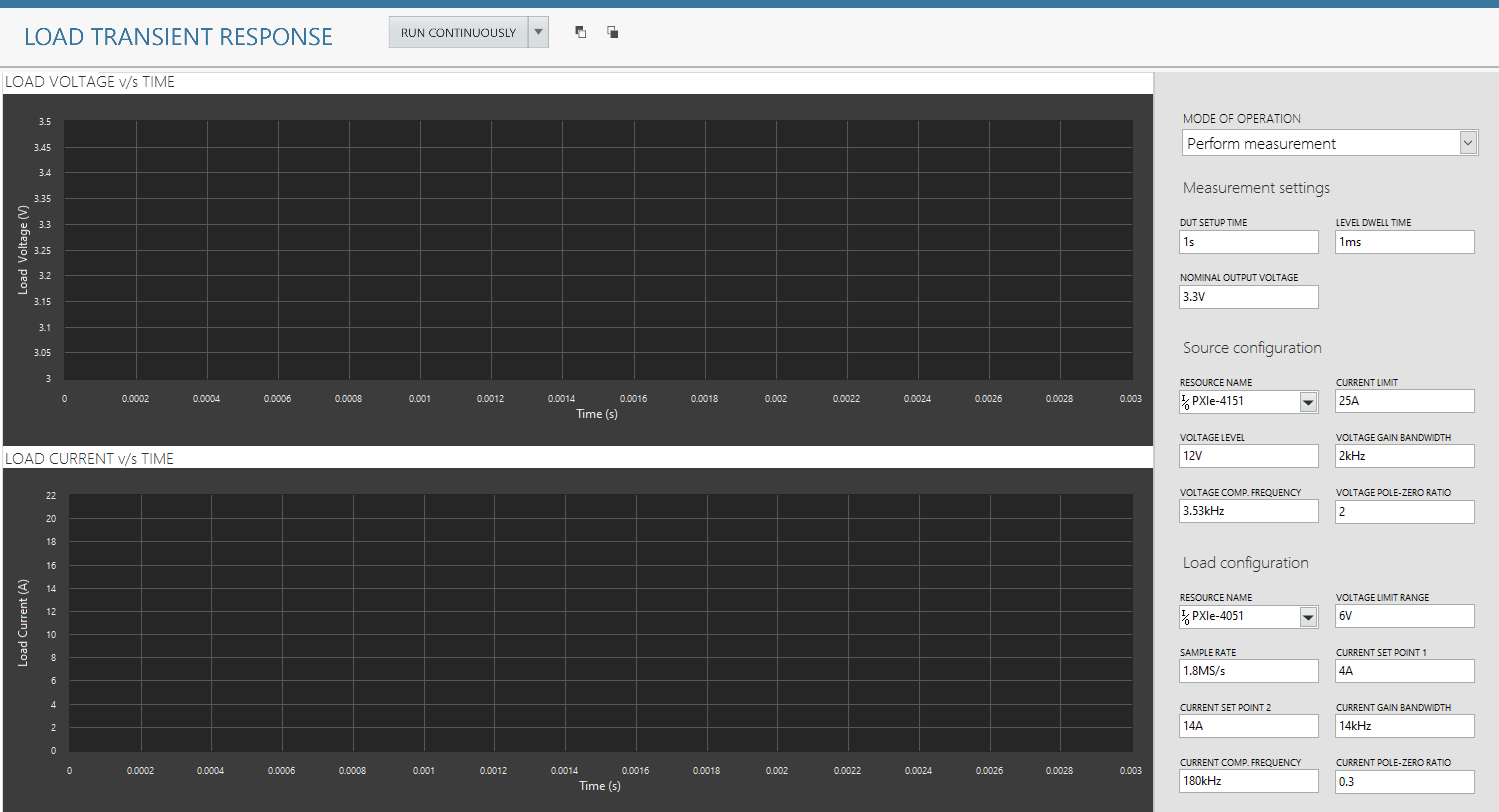
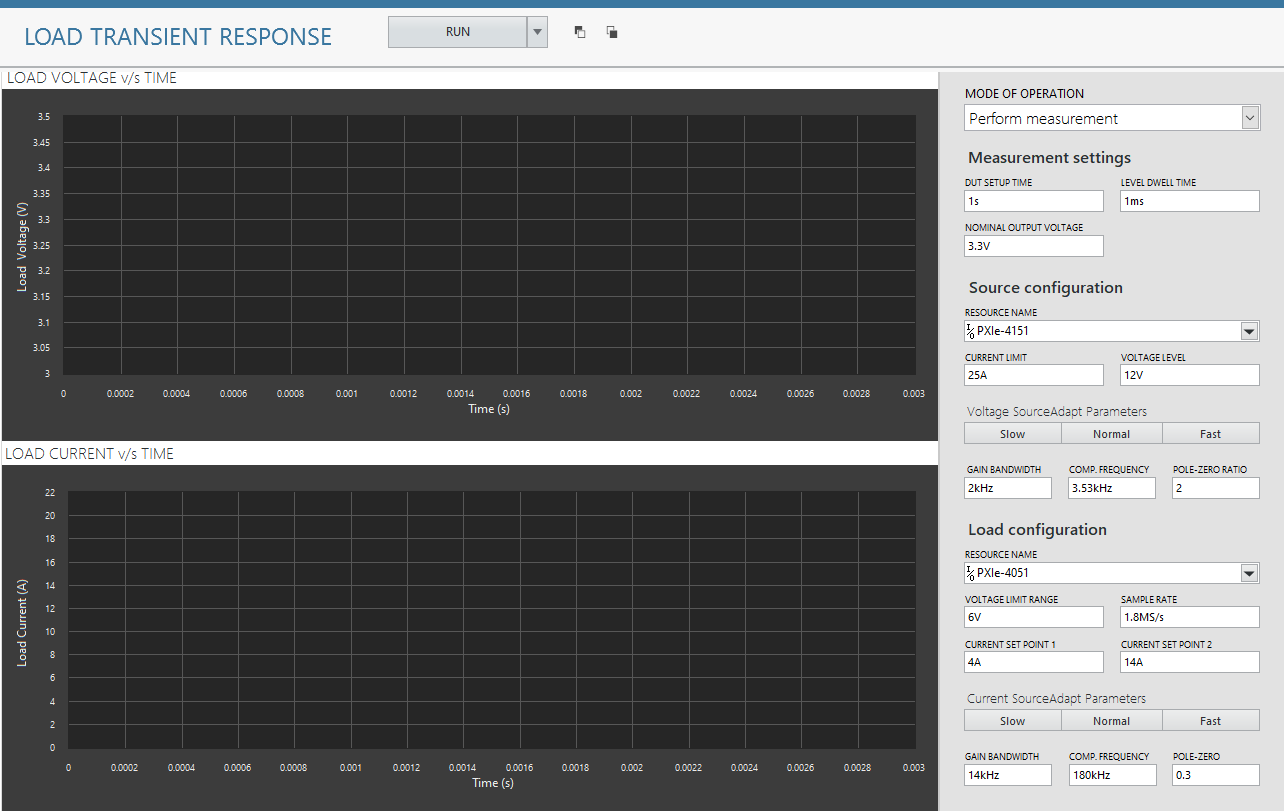
updating load transient

diff --git a/docs/measurements/load-transient-response.md b/docs/measurements/load-transient-response.md
@@ -13,6 +13,11 @@ This service performs Load Transient Response measurement.
 
    ![alt text](meas-images/load-tran-meas-results.png)
 
-3. Make sure to select the 'Run' button instead of 'Run continuously' when any other mode of operation (Power on/off the DUT) is selected.
+3. Note that the measurement is in 'Custom' transient response by default. To change the transient response value, click on either Slow, Normal, or Fast. The SourceAdapt parameters will be updated accordingly. 
+   Change any of the SourceAdapt parameters for custom transient response.
+  
+   ![alt text](meas-images/load-tran-meas-results.png)
+
+4. Make sure to select the 'Run' button instead of 'Run continuously' when any other mode of operation (Power on/off the DUT) is selected.
 
    ![alt text](meas-images/load-tran-run-button.png)
